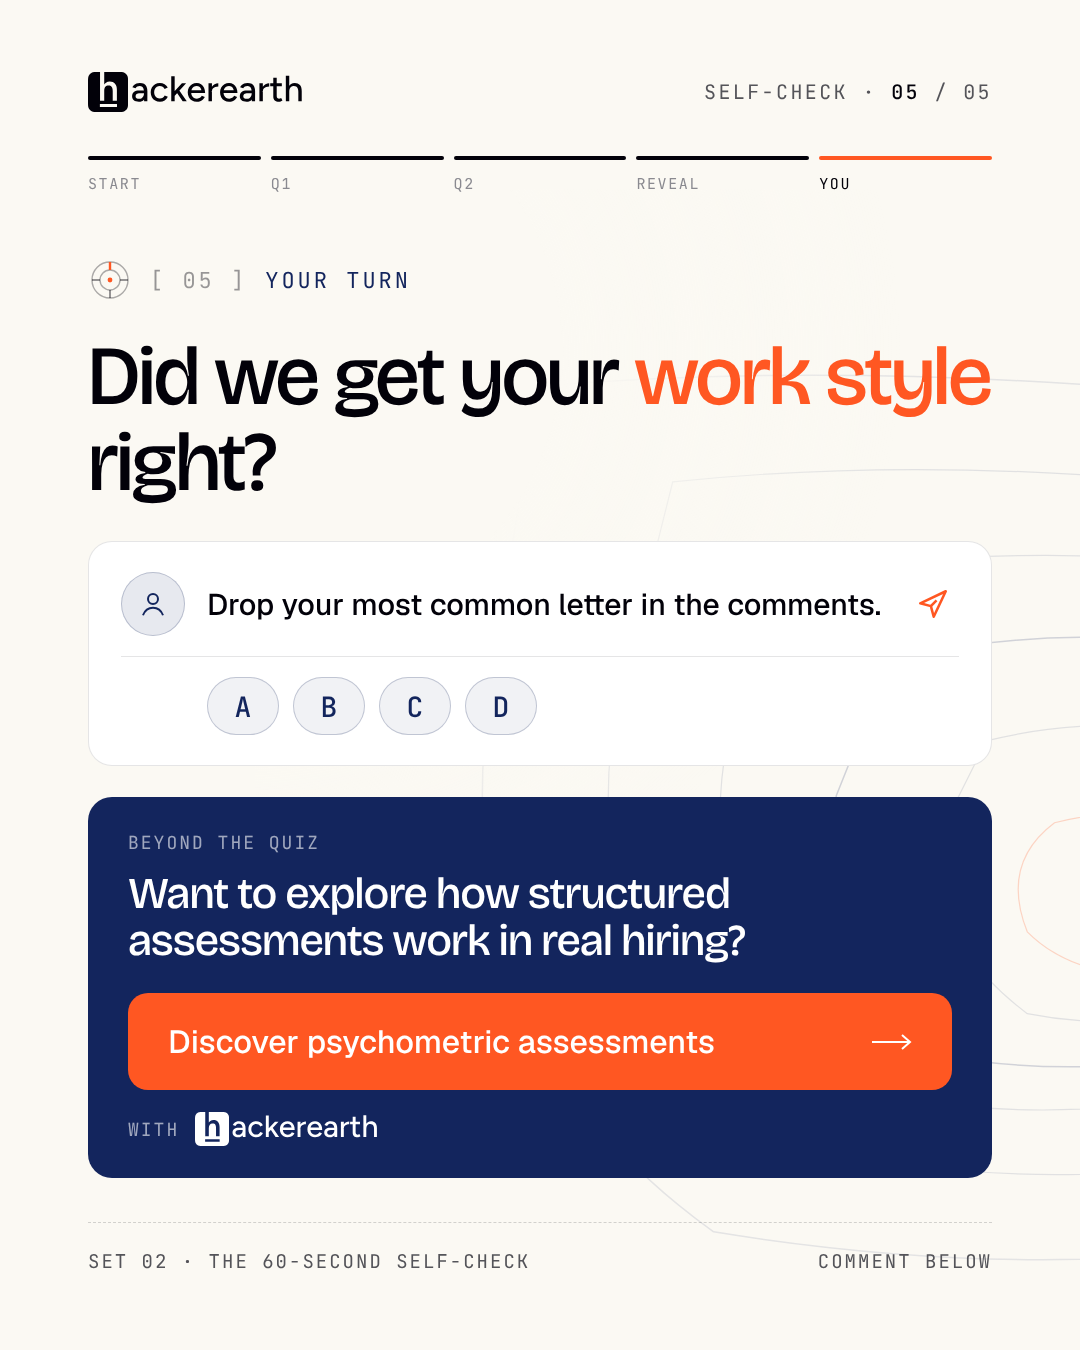
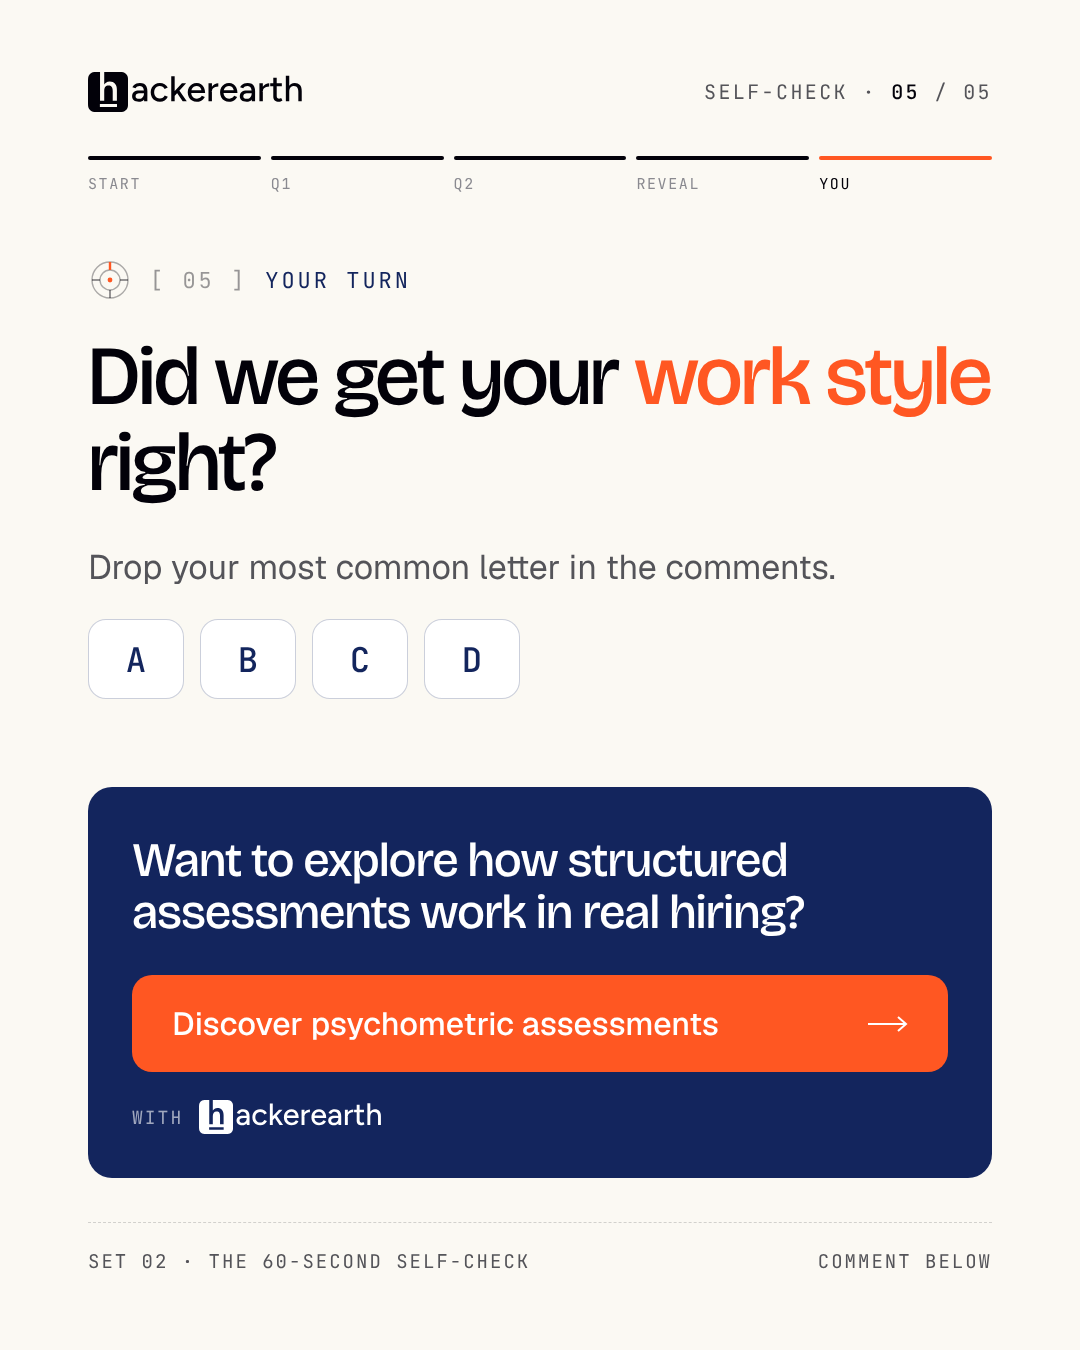
Carousel: cream reveal slide, declutter CTA slide
Reveal slide moves from dark to cream. CTA slide drops the mock comment
card, contour backdrop and extra tagline so the ask and the CTA card
have room to breathe.

Claude-Session: https://claude.ai/code/session_011WvSfd7jShGBWHTo2t24v1

diff --git a/instagram-carousels/set-2-60-second-self-check/carousel.html b/instagram-carousels/set-2-60-second-self-check/carousel.html
@@ -161,32 +161,23 @@
 
   /* ----- Slide 4 · Reveal ----- */
   .result-grid { margin-top: auto; display: flex; flex-direction: column; gap: 14px; }
-  .result { display: grid; grid-template-columns: 80px 1fr auto; gap: 30px; align-items: center; background: rgba(255,255,255,0.03); border: 1px solid rgba(255,255,255,0.08); border-radius: 22px; padding: 18px 32px 18px 18px; }
-  .result .letter { width: 80px; height: 80px; border-radius: 16px; display: grid; place-items: center; border: 1.5px solid rgba(255,255,255,0.22); font-family: var(--display); font-weight: 500; font-size: 46px; color: #fff; }
-  .result .mostly { display: block; font-family: var(--mono); font-size: 17px; letter-spacing: 2px; text-transform: uppercase; color: var(--eyebrow-on-dark); }
-  .result .style { display: block; margin-top: 6px; font-family: var(--display); font-weight: 500; font-size: 40px; line-height: 1.05; letter-spacing: -1px; color: #fff; }
-  .result .coord { align-self: start; padding-top: 10px; font-family: var(--mono); font-size: 16px; letter-spacing: 1.4px; color: rgba(255,255,255,0.35); }
-  .note { margin-top: 20px; display: grid; grid-template-columns: auto 1fr; gap: 20px; align-items: start; border: 1px dashed rgba(255,255,255,0.2); border-radius: 18px; padding: 24px 28px; }
-  .note .tag { font-family: var(--mono); font-size: 16px; letter-spacing: 2px; text-transform: uppercase; color: var(--eyebrow-on-dark); padding-top: 5px; }
-  .note p { font-size: 26px; line-height: 1.4; color: rgba(255,255,255,0.68); }
+  .result { display: grid; grid-template-columns: 80px 1fr auto; gap: 30px; align-items: center; background: var(--bg-card); border: 1.5px solid var(--border); border-radius: 22px; padding: 18px 32px 18px 18px; }
+  .result .letter { width: 80px; height: 80px; border-radius: 16px; display: grid; place-items: center; font-family: var(--mono); font-weight: 500; font-size: 34px; color: var(--accent); background: color-mix(in srgb, var(--accent) 6%, white); border: 1.5px solid color-mix(in srgb, var(--accent) 22%, transparent); }
+  .result .mostly { display: block; font-family: var(--mono); font-size: 17px; letter-spacing: 2px; text-transform: uppercase; color: var(--text-muted); }
+  .result .style { display: block; margin-top: 6px; font-family: var(--display); font-weight: 500; font-size: 40px; line-height: 1.05; letter-spacing: -1px; color: var(--text); }
+  .result .coord { align-self: start; padding-top: 10px; font-family: var(--mono); font-size: 16px; letter-spacing: 1.4px; color: var(--text-faint); }
+  .note { margin-top: 20px; display: grid; grid-template-columns: auto 1fr; gap: 20px; align-items: start; border: 1.5px dashed rgba(2,1,9,0.18); border-radius: 18px; padding: 24px 28px; }
+  .note .tag { font-family: var(--mono); font-size: 16px; letter-spacing: 2px; text-transform: uppercase; color: var(--accent); padding-top: 5px; }
+  .note p { font-size: 26px; line-height: 1.4; color: var(--text-muted); }
 
   /* ----- Slide 5 · CTA ----- */
-  .s5 .topo svg { right: -820px; top: 300px; }
-  .s5 .topo::after { content: ''; position: absolute; inset: 0; background: radial-gradient(ellipse 75% 55% at 22% 26%, var(--bg) 0%, var(--bg) 40%, transparent 82%); }
-  .comment { margin-top: 36px; margin-bottom: 28px; background: var(--bg-card); border: 1.5px solid var(--border); border-radius: 24px; padding: 30px 32px; }
-  .comment-row { display: grid; grid-template-columns: 64px 1fr 52px; gap: 22px; align-items: center; }
-  .avatar { width: 64px; height: 64px; border-radius: 50%; background: color-mix(in srgb, var(--accent) 10%, white); border: 1.5px solid color-mix(in srgb, var(--accent) 22%, transparent); display: grid; place-items: center; }
-  .avatar svg { width: 30px; height: 30px; }
-  .comment-input { font-size: 30px; line-height: 1.3; color: var(--text); font-weight: 500; }
-  .send { width: 52px; height: 52px; display: grid; place-items: center; }
-  .send svg { width: 34px; height: 34px; }
-  .chips { display: flex; gap: 14px; margin-top: 20px; padding-top: 20px; border-top: 1px solid var(--border); padding-left: 86px; }
-  .chip { width: 72px; height: 58px; border-radius: 100px; display: grid; place-items: center; font-family: var(--mono); font-weight: 500; font-size: 28px; color: var(--accent); background: color-mix(in srgb, var(--accent) 6%, white); border: 1.5px solid color-mix(in srgb, var(--accent) 22%, transparent); }
-  .promo { margin-top: auto; background: var(--accent); color: #fff; border-radius: 24px; padding: 34px 40px 32px; }
-  .promo .tagline { font-family: var(--mono); font-size: 18px; letter-spacing: 2px; text-transform: uppercase; color: rgba(255,255,255,0.6); }
-  .promo h3 { margin-top: 16px; font-family: var(--display); font-weight: 500; font-size: 44px; line-height: 1.08; letter-spacing: -1.2px; }
-  .promo .btn-cta { margin-top: 28px; width: 100%; justify-content: space-between; }
-  .promo .with { margin-top: 22px; display: flex; align-items: center; gap: 16px; font-family: var(--mono); font-size: 18px; letter-spacing: 2px; text-transform: uppercase; color: rgba(255,255,255,0.6); }
+  .s5 .ask { margin-top: 40px; font-size: 34px; line-height: 1.35; color: var(--text-muted); }
+  .chips { display: flex; gap: 16px; margin-top: 28px; }
+  .chip { width: 96px; height: 80px; border-radius: 18px; display: grid; place-items: center; font-family: var(--mono); font-weight: 500; font-size: 34px; color: var(--accent); background: var(--bg-card); border: 1.5px solid color-mix(in srgb, var(--accent) 22%, transparent); }
+  .promo { margin-top: auto; background: var(--accent); color: #fff; border-radius: 24px; padding: 48px 44px 44px; }
+  .promo h3 { font-family: var(--display); font-weight: 500; font-size: 48px; line-height: 1.08; letter-spacing: -1.2px; }
+  .promo .btn-cta { margin-top: 36px; width: 100%; justify-content: space-between; }
+  .promo .with { margin-top: 28px; display: flex; align-items: center; gap: 16px; font-family: var(--mono); font-size: 18px; letter-spacing: 2px; text-transform: uppercase; color: rgba(255,255,255,0.6); }
   .promo .with img { height: 34px; }
 </style>
 </head>
@@ -298,9 +289,9 @@
   </section>
 
   <!-- ================================================= SLIDE 4 · THE REVEAL -->
-  <section class="slide dark s4" id="slide-4">
+  <section class="slide s4" id="slide-4">
     <header class="topbar">
-      <img src="../../Logo-Light.svg" alt="HackerEarth">
+      <img src="../../Logo%20Dark.svg" alt="HackerEarth">
       <span class="counter">Self-check · <strong>04</strong> / 05</span>
     </header>
     <div class="progress">
@@ -326,17 +317,6 @@
 
   <!-- ================================================= SLIDE 5 · THE CTA -->
   <section class="slide s5" id="slide-5">
-    <div class="topo" aria-hidden="true">
-      <svg viewBox="-100 -100 1100 800" preserveAspectRatio="xMidYMid meet">
-        <path class="contour peak" d="M 380 280 Q 460 260 520 300 Q 540 360 480 390 Q 400 400 360 360 Q 340 310 380 280 Z"/>
-        <path class="contour" d="M 330 220 Q 450 190 570 240 Q 610 310 560 390 Q 460 440 360 420 Q 280 360 300 280 Z"/>
-        <path class="contour major" d="M 260 160 Q 440 120 620 180 Q 690 280 620 410 Q 460 480 290 450 Q 200 370 220 260 Z"/>
-        <path class="contour" d="M 180 100 Q 420 60 670 120 Q 770 250 690 410 Q 480 520 250 480 Q 110 380 140 220 Z"/>
-        <path class="contour" d="M 100 30 Q 390 0 730 70 Q 860 220 770 440 Q 510 580 200 520 Q 20 390 60 190 Z"/>
-        <path class="contour major" opacity="0.55" d="M 0 -40 Q 360 -70 810 10 Q 970 190 870 480 Q 560 650 130 580 Q -80 430 -30 160 Z"/>
-      </svg>
-    </div>
-
     <header class="topbar">
       <img src="../../Logo%20Dark.svg" alt="HackerEarth">
       <span class="counter">Self-check · <strong>05</strong> / 05</span>
@@ -350,17 +330,10 @@
       <span class="ds-eyebrow"><span class="compass" aria-hidden="true"><svg viewBox="0 0 22 22"><circle cx="11" cy="11" r="9" class="c-ring"/><circle cx="11" cy="11" r="5" class="c-ring"/><line x1="11" y1="2" x2="11" y2="6" class="c-n"/><line x1="20" y1="11" x2="16" y2="11" class="c-tick"/><line x1="11" y1="20" x2="11" y2="16" class="c-tick"/><line x1="2" y1="11" x2="6" y2="11" class="c-tick"/><circle cx="11" cy="11" r="1.2" class="c-dot"/></svg></span><span class="bracket">[ 05 ]</span><span>Your turn</span></span>
       <h2 class="h-q">Did we get your <em>work style</em> right?</h2>
 
-      <div class="comment">
-        <div class="comment-row">
-          <span class="avatar"><svg viewBox="0 0 24 24" fill="none" stroke="#13255D" stroke-width="1.6"><circle cx="12" cy="8" r="4"/><path d="M4 21c1.5-4 4.5-6 8-6s6.5 2 8 6"/></svg></span>
-          <span class="comment-input">Drop your most common letter in the comments.</span>
-          <span class="send"><svg viewBox="0 0 24 24" fill="none" stroke="#FF5722" stroke-width="1.8" stroke-linejoin="round"><path d="M3 11.5 21 3l-8.5 18-2-7.5z"/><path d="m10.5 13.5 4-4"/></svg></span>
-        </div>
-        <div class="chips"><span class="chip">A</span><span class="chip">B</span><span class="chip">C</span><span class="chip">D</span></div>
-      </div>
+      <p class="ask">Drop your most common letter in the comments.</p>
+      <div class="chips"><span class="chip">A</span><span class="chip">B</span><span class="chip">C</span><span class="chip">D</span></div>
 
       <div class="promo">
-        <div class="tagline">Beyond the quiz</div>
         <h3>Want to explore how structured assessments work in real hiring?</h3>
         <div class="btn-cta">Discover psychometric assessments <svg width="40" height="16"><use href="#arrow"/></svg></div>
         <div class="with">with <img src="../../Logo-Light.svg" alt="HackerEarth"></div>
